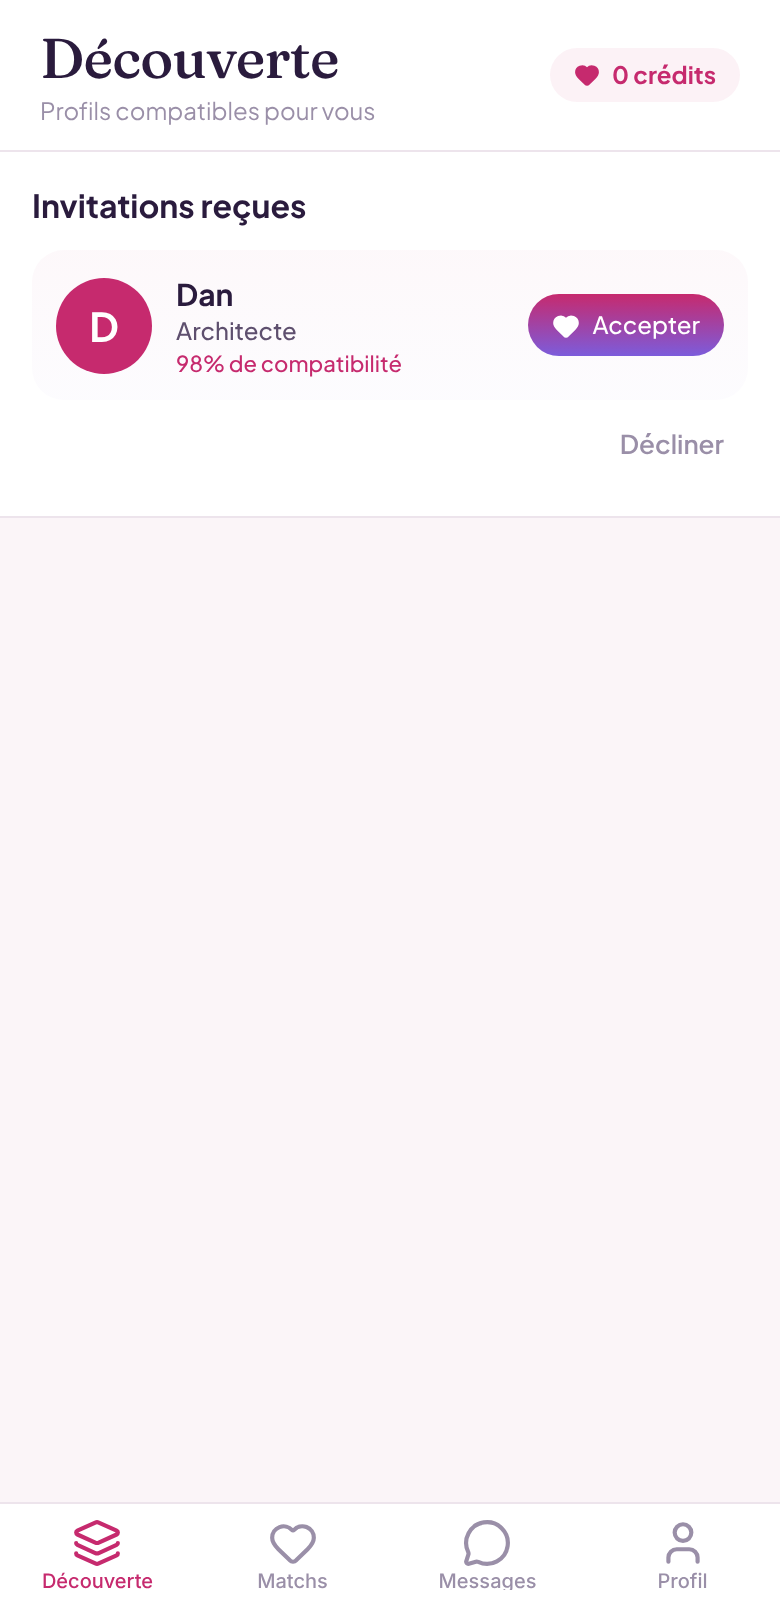
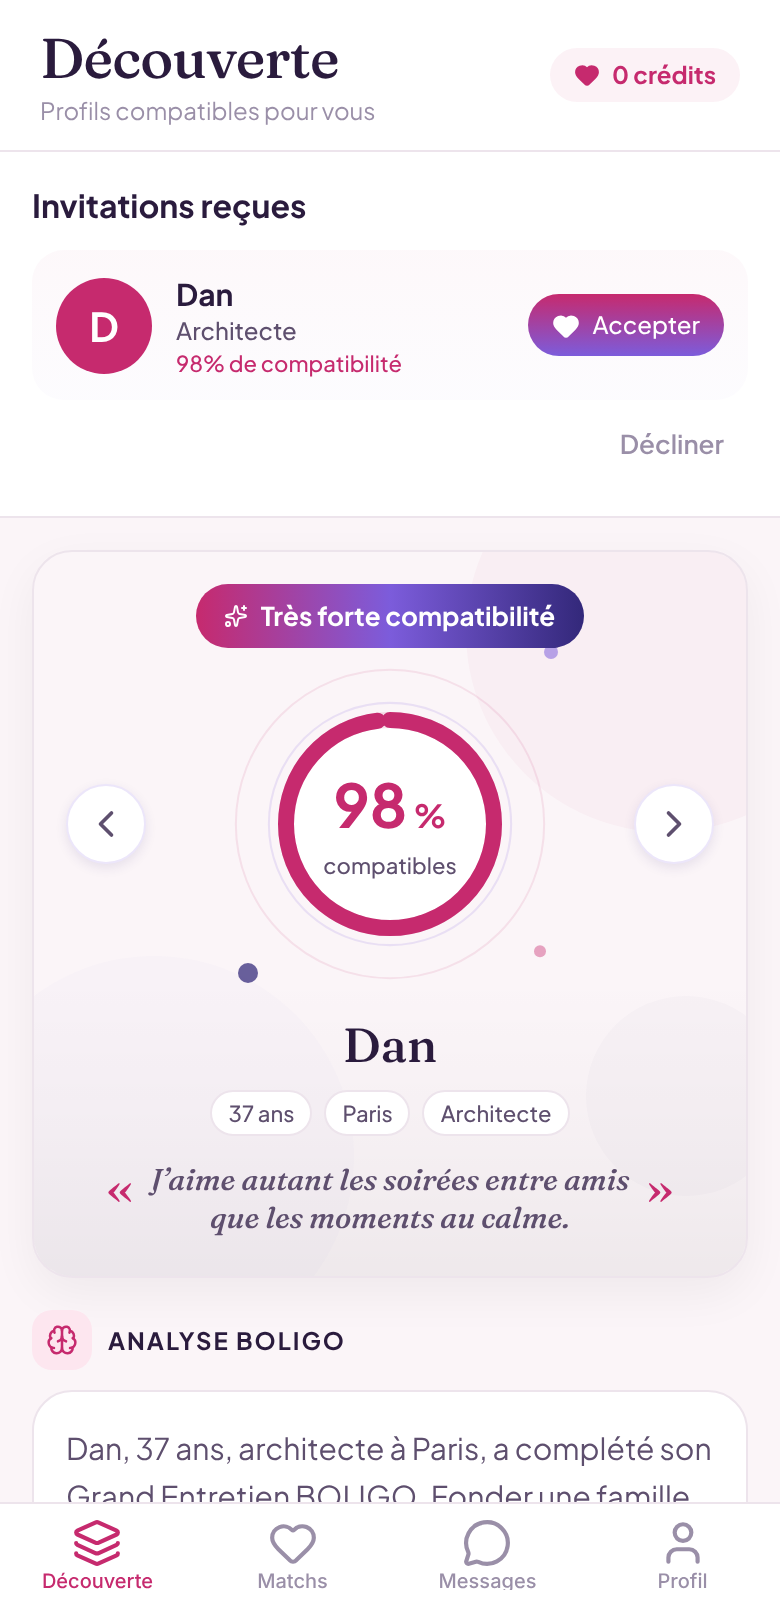
Prévisualisation : IA simulée (faux OpenRouter local) pour jouer le parcours jusqu'au bout, codes d'e-mail lisibles dans le journal
- deploy/preview-start.js : faux OpenRouter déterministe dans le conteneur
  (RECETTE_FAUX_IA=0 pour le couper) ; sans IA, la règle fail-closed cache
  les réponses du Sondeur et retient la messagerie jusqu'à une décision de
  l'équipe. Une vraie clé OpenRouter n'est jamais utilisée en prévisualisation.
- email.service : en RECETTE_PREVIEW=1 seulement, sujets (codes) en clair dans
  le journal ; production inchangée (codes masqués).
- Recette C rejouée sur la prévisualisation : 60 OK, 1 KO d'environnement
  (script CDN jsQR bloqué par le réseau du conteneur), 4 non testés (réseau,
  Daily, notifications push, échéance anti-ghosting).

Claude-Session: https://claude.ai/code/session_0115GCCwyQnAJ8kF9yddDf8h

diff --git a/deploy/preview-start.js b/deploy/preview-start.js
@@ -11,7 +11,8 @@
  *    en JavaScript (dist-seed). Par défaut une seule fois : relancés seulement
  *    si les comptes de recette sont absents, ou si RECETTE_RESEED=1 (remise à
  *    zéro des comptes fictifs ; les comptes créés à la main sont conservés).
- * 4. Lancement de l'API (qui sert aussi la webapp et l'admin).
+ * 4. IA simulée (faux OpenRouter local), sauf RECETTE_FAUX_IA=0.
+ * 5. Lancement de l'API (qui sert aussi la webapp et l'admin).
  */
 const { spawnSync, spawn } = require('child_process');
 const path = require('path');
@@ -81,12 +82,37 @@ async function alreadySeeded() {
     }
   }
 
-  // 4. API (sert aussi / et /admin).
+  // 4. IA SIMULÉE (par défaut en prévisualisation, RECETTE_FAUX_IA=0 pour la
+  // couper) : faux OpenRouter local et déterministe, sans réseau ni clé. Sans
+  // IA, la règle fail-closed cache chaque réponse du Sondeur jusqu'à la
+  // décision de l'équipe et retient la messagerie : le parcours ne pourrait
+  // pas être joué de bout en bout. Une vraie clé OpenRouter n'est jamais
+  // utilisée ici (l'adresse est forcée sur le faux local).
+  let apiEnv = env;
+  if (env.RECETTE_FAUX_IA !== '0') {
+    const fake = spawn(process.execPath, [path.join('deploy', 'fake-openrouter.js'), '8799'], {
+      cwd: ROOT,
+      stdio: 'inherit',
+      env: { PATH: env.PATH },
+    });
+    fake.on('exit', (code) => console.error(`⚠  Faux OpenRouter arrêté (code ${code}).`));
+    apiEnv = {
+      ...env,
+      OPENROUTER_BASE_URL: 'http://127.0.0.1:8799/api/v1',
+      OPENROUTER_API_KEY: 'faux-openrouter-local-recette',
+      OPENROUTER_AUTH: '',
+      GROQ_API_KEY: '',
+      INSIGHTS_RETRY_AFTER_MS: env.INSIGHTS_RETRY_AFTER_MS || '5000',
+    };
+    console.log('\nℹ  IA SIMULÉE : faux OpenRouter local (modération, lectures du Sondeur). RECETTE_FAUX_IA=0 pour tester le repli fail-closed sans IA.');
+  }
+
+  // 5. API (sert aussi / et /admin).
   console.log('\n▶ Démarrage de l’API');
   const api = spawn(process.execPath, ['--max-old-space-size=400', path.join('dist', 'main.js')], {
     cwd: ROOT,
     stdio: 'inherit',
-    env,
+    env: apiEnv,
   });
   const stop = (sig) => api.kill(sig);
   process.on('SIGTERM', () => stop('SIGTERM'));

diff --git a/src/common/email.service.ts b/src/common/email.service.ts
@@ -63,7 +63,7 @@ export class EmailService implements OnModuleInit {
     // test) ; tout le reste est seulement écrit dans le journal.
     if (process.env.RECETTE_PREVIEW === '1' && !isRecetteAddress(to)) {
       console.log(
-        `✉ [EMAIL PRÉVISUALISATION — non envoyé] To: ${maskEmail(to)} · Subject: ${subject.replace(/\d/g, '•')}`,
+        `✉ [EMAIL PRÉVISUALISATION — non envoyé] To: ${maskEmail(to)} · Subject: ${subject}`,
       );
       return;
     }
@@ -260,7 +260,9 @@ export class EmailService implements OnModuleInit {
     console.log(`✉ [EMAIL SIMULATED] To: ${maskEmail(to)}`);
     // Le sujet contient le code de vérification : jamais dans les journaux de production.
     console.log(
-      `[EMAIL SIMULATED] Subject: ${process.env.NODE_ENV === 'production' ? subject.replace(/\d/g, '•') : subject}`,
+      // Prévisualisation de recette : codes lisibles dans le journal (aucun
+      // e-mail n'y part), pour vérifier un compte ou un mot de passe oublié.
+      `[EMAIL SIMULATED] Subject: ${process.env.NODE_ENV === 'production' && process.env.RECETTE_PREVIEW !== '1' ? subject.replace(/\d/g, '•') : subject}`,
     );
     console.log('==================================================\n');
   }

diff --git a/docs/PREVISUALISATION_RECETTE.md b/docs/PREVISUALISATION_RECETTE.md
@@ -22,7 +22,8 @@ Expo, export admin, puis image d'exécution `node:22-bookworm-slim`). Démarrage
 - Clés Stripe **LIVE refusées** (`sk_live_`, `rk_live_`, `pk_live_`), y compris au build de la webapp.
 - `RECETTE_BASIC_AUTH` obligatoire (`utilisateur:motdepasse`, 8 caractères au moins) ; tout le site est protégé sauf `/api/health` et `/api/payment/webhook` (signé par Stripe). En-tête `X-Robots-Tag: noindex` partout.
 - **E-mails** : aucun envoi vers une vraie adresse. Seuls `@recette.boligo.test` et `@boligo-demo.example` peuvent partir (et seulement si un fournisseur est configuré) ; tout le reste est écrit dans le journal.
-- **Code de vérification 1234** accepté uniquement dans ce mode (inscription sans e-mail).
+- **Code de vérification 1234** accepté uniquement dans ce mode (inscription sans e-mail). Les e-mails retenus sont écrits **en clair** dans le journal Render (code de réinitialisation du mot de passe compris).
+- **IA SIMULÉE par défaut** (`RECETTE_FAUX_IA`, absent = activé) : un faux OpenRouter local et déterministe tourne dans le conteneur (modération « aucun danger », lectures du Sondeur). Sans IA, la règle fail-closed cache chaque réponse du Sondeur jusqu'à une décision de l'équipe (page Signalements de l'admin : « rejeter ») et retient la messagerie : le parcours ne peut pas aller jusqu'au chat. Une vraie clé OpenRouter n'est jamais utilisée en prévisualisation. `RECETTE_FAUX_IA=0` pour tester le repli sans IA.
 - Seeds fictifs : refusés sur Supabase, même en prévisualisation.
 
 ## Démarrage (automatique)
